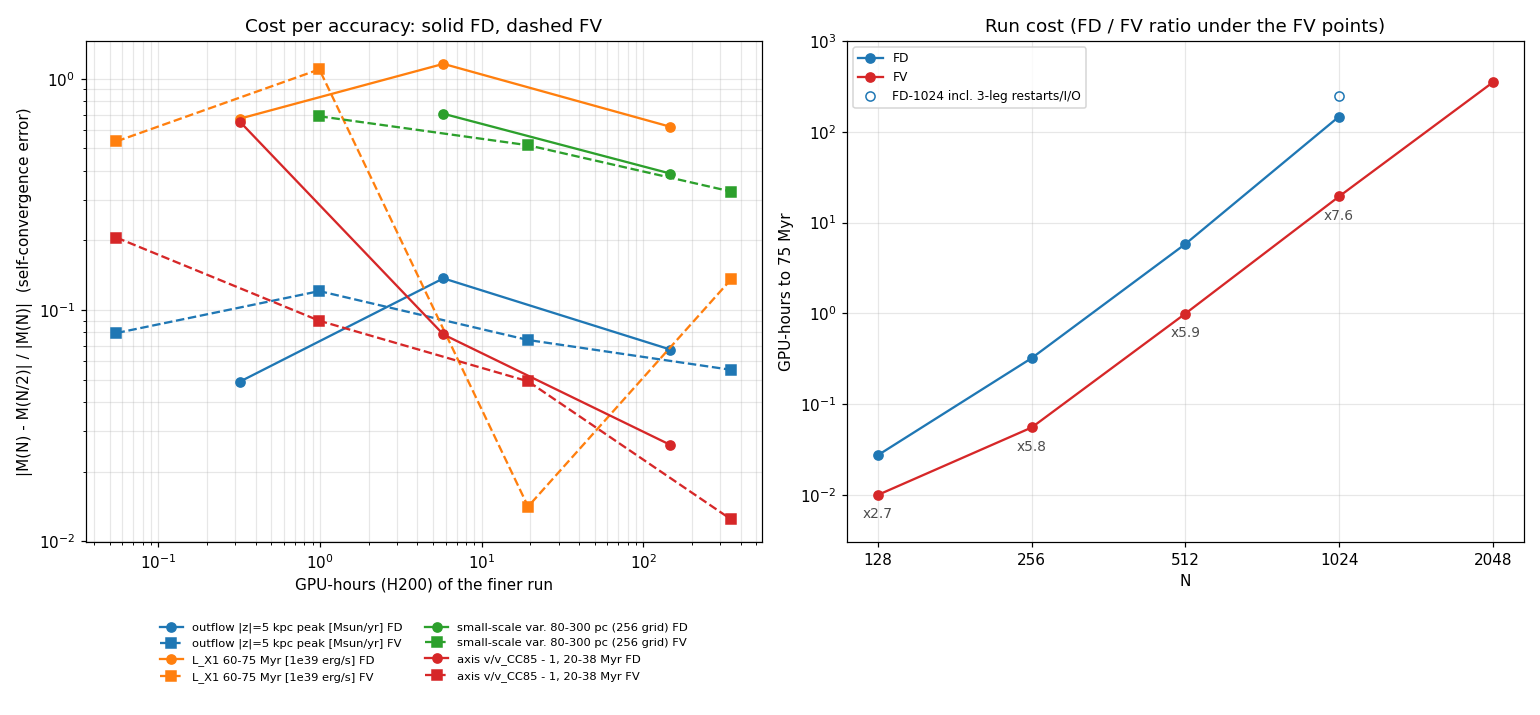
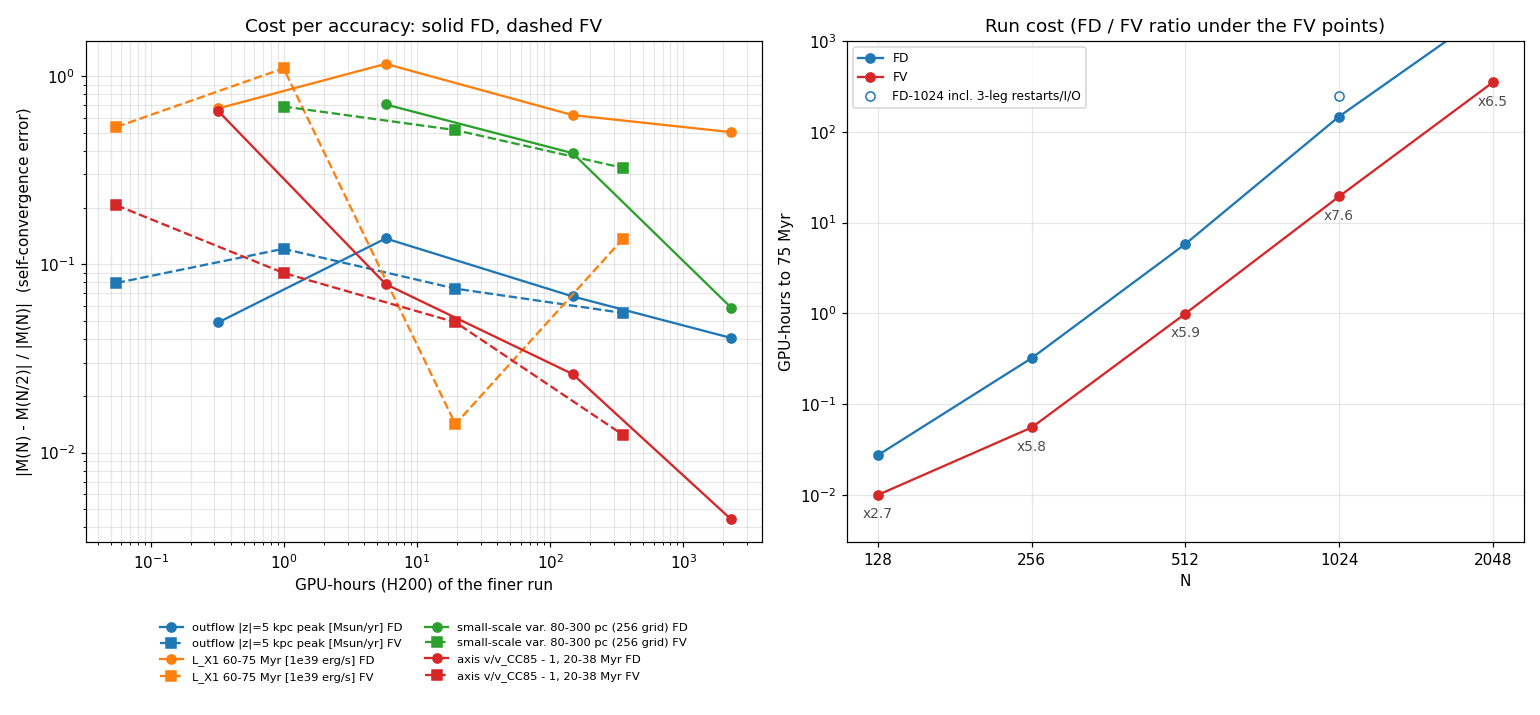
cgols: FD-2048 in the FV/FD synthesis (FD-FV rows and the FD 512-2048 ladder to 2048) + fv_vs_fd_A2048
At 2048 FD and FV agree within noise on nearly every frame metric: late L_X1
5.59 vs 5.23e39 (z 0.6), 40-50 Myr outflow 6.92 vs 6.93, mass out 311 vs 310,
side loss, box mass, pinch, asymmetry, small-scale variance. Remaining gaps:
late H-alpha FD +8% (z 3.7) and the 1 kpc mixed outflow FV +33% (2.85 vs 2.15).

diff --git a/pytests/self_gravity/cgols/cgols_fvfd_synthesis.py b/pytests/self_gravity/cgols/cgols_fvfd_synthesis.py
@@ -26,19 +26,19 @@ Per run (cached in data/studies/fvfd_synthesis_metrics.json, --recompute to rebu
 
 Noise. sigma_traj = sample std over the realisations of one scheme at one N: IC-noise seeds 0-3, the checkpoint-
 segmented vs unsegmented baselines and reruns (fp32 only). The IC noise (1e-3) perturbs less than checkpoint
-segmentation does, so this is a LOWER bound. Where a scheme/N has no ensemble (FD-1024) it is
+segmentation does, so this is a LOWER bound. Where a scheme/N has no ensemble (FD-1024, FD-2048, FV-2048) it is
 extrapolated as "noise does not shrink with N, and FD is as noisy as FV": the largest sigma measured for either
 scheme at any N' <= N (relative for positive fluxes/luminosities, absolute for log or shape metrics); the
-pessimistic variant also applies the FV 256 -> 512 growth once more at 1024. sigma_t is the standard error of a
+pessimistic variant also applies the FV 256 -> 512 growth once more at 1024 and 2048. sigma_t is the standard error of a
 window mean from 5 Myr block means (a stationarity-based proxy that exists for every run). The conservative
 sigma = max(sigma_traj, sigma_t); a difference is called significant if |FD - FV| > 3 sigma_diff with
 sigma_diff = hypot(sigma_FD, sigma_FV). 3D metrics have no ensembles: they borrow the relative sigma_traj of the
 matching frames metric (out5 window) and take the max with their own sigma_t.
 
-Statistics printed per metric: FD, FV, FD-FV and z = (FD-FV)/sigma_diff at 128/256/512/1024; the power-law slope b
-of |FD-FV| ~ N^b (weighted fit, 256-1024, only if the sign is constant); per scheme the successive differences
-256->512->1024, the observed order p = log2(|d1|/|d2|) and a Richardson value M_inf = M_1024 + d2/(2^p - 1) when
-monotone (Monte Carlo over sigma: the fraction of draws that are monotone, the 16-84% range); the equivalent-
+Statistics printed per metric: FD, FV, FD-FV and z = (FD-FV)/sigma_diff at 128-2048; the power-law slope b
+of |FD-FV| ~ N^b (weighted fit, 256-2048, only if the sign is constant); per scheme the successive differences
+256->512->1024 and 512->1024->2048, the observed order p = log2(|d1|/|d2|) and a Richardson value
+M_inf = M_N + d2/(2^p - 1) when monotone (Monte Carlo over sigma: the fraction of draws that are monotone, the 16-84% range); the equivalent-
 resolution factor k with FV(N) = FD(kN) (interpolated in log2 N on the FD ladder); and the GPU-hours per run. The
 ablations (HLLE, fp64, CFL 0.3, PPM) are listed as offsets from their FV baseline in units of sigma.
 
@@ -66,6 +66,8 @@ ablations (HLLE, fp64, CFL 0.3, PPM) are listed as offsets from their FV baselin
     # _A512s1 --source frames): FD-512 sigma_traj is measured (2 members) instead of extrapolated.
     # 2026-11-05: + FV-1024 seed 1 (RUNS["FV1024s1"], HoreKa job 117180, emission cache from the frames): FV-1024
     # sigma_traj measured (2 members).
+    # 2026-11-09: + FD-2048 (RUNS["FD2048"], the A-2048 production run; frames, emission and 3D caches from the
+    # A-2048 analysis). FD-FV rows, the FD 512 -> 1024 -> 2048 ladder and the slope fit now run to 2048.
 
 Writes figures/cgols/comparisons/fvfd_summary_significance.png, fvfd_convergence.png and fvfd_cost.png and prints
 the markdown tables. CPU only, numpy + scipy + matplotlib (no jax).
@@ -98,7 +100,7 @@ CACHE = "data/studies/fvfd_synthesis_metrics.json"
 FIG_DIR = "figures/cgols/comparisons"
 BOX_Z = 20.0
 MYR_PER_CODE_TIME = 9.777922216807893
-RES = (128, 256, 512, 1024, 2048)  # FD to 1024; FV to 2048 (FD-FV differences exist where both do)
+RES = (128, 256, 512, 1024, 2048)
 HEIGHTS_KPC = np.array([0.5, 1.0, 2.0, 3.0, 4.0, 5.0, 6.0, 8.0])  # = cgols_convergence_3d.HEIGHTS_KPC
 RNG = np.random.default_rng(1)
 
@@ -154,6 +156,9 @@ RUNS = {
     # HoreKa job 112293 (32 H200, split (1, 8, 4, 1), code 2ce69fa): frames + emission; 3D cache
     # data/studies/convergence3d_v3_A2048fv.npz (31 checkpoints, every 2nd frame + 59, measured on HoreKa)
     "FV2048": ("FV", 2048, "base", "cgols_snapshots_A2048fv", "_A2048fv", "_A2048fv", f"{LOGS}/cgols_diag_A2048fv.log"),
+    # HoreKa jobs 96655 + 96657 (32 H200, split (1, 8, 4, 1)); 60 frames (51.25 Myr missing), emission from the
+    # frames, 3D cache from HoreKa job 123745 (all 60 checkpoints)
+    "FD2048": ("FD", 2048, "base", "cgols_snapshots_A2048", "_A2048", "_A2048", f"{LOGS}/cgols_diag_A2048.log"),
 }
 
 #: Solver GPU-hours (H200) to 75 Myr from the console logs (time_integration wall x GPUs); 128/256 from the
@@ -165,6 +170,9 @@ GPU_HOURS = {
     ("FD", 512): 20898.4 / 3600, ("FV", 512): 3571.9 / 3600,
     ("FD", 1024): 3.13 * 42341 * 4 / 3600, ("FV", 1024): 17449.4 * 4 / 3600,
     ("FV", 2048): 39422.9 * 32 / 3600,  # 68952 steps, 32 H200, one leg (job 112293)
+    # 92826 steps, 32 H200, legs 96655 (42.1 h, died writing the 51.25 Myr frame) + 96657 (29.51 h); without the
+    # 780 GPU-h of leg 96656 lost to an InfiniBand hang
+    ("FD", 2048): (42.1 + 29.51) * 32,
 }
 GPU_HOURS_FD1024_TOTAL = 246.0
 
@@ -582,7 +590,7 @@ def verdict(row):
     return "<" if row["R"] < 1 else ">"
 
 
-def trend(rows, ns=(256, 512, 1024)):
+def trend(rows, ns=(256, 512, 1024, 2048)):
     """Weighted fit |Delta| ~ N^b over ns if Delta keeps its sign; (b, err, note)."""
     pts = [(n, rows[n]["delta"], rows[n]["sigma"]) for n in ns if n in rows]
     if len(pts) < 3:
@@ -643,10 +651,12 @@ def k_factor(cell, n, draws=2000, key=None):
         d = np.diff([cell[("FD", m)]["value"] for m in points])
         return len(points) >= 2 and (np.all(d > 0) or np.all(d < 0))
 
-    if not monotone(ns):  # the full FD ladder must be monotone; else try 256-1024 only
+    if not monotone(ns):  # the full FD ladder must be monotone; else try 256-2048, then 512-2048
         ns = [m for m in ns if m >= 256]
         if not monotone(ns):
-            return None, None, "FD non-monotone"
+            ns = [m for m in ns if m >= 512]
+            if not monotone(ns):
+                return None, None, "FD non-monotone"
 
     def solve(fd, target):
         x = np.log2(ns)
@@ -701,9 +711,9 @@ def fmt(v, digits=3):
 def tables(st, runs, data):
     summary = {}
     print("\n## Metric table: FD | FV (+- sigma) and z = (FD-FV)/sigma_diff per N  [* = sigma_traj extrapolated; "
-          "late metrics: z with sigma = max(traj, t) / z with sigma_traj only; (p ...) = pessimistic 1024]\n")
+          "late metrics: z with sigma = max(traj, t) / z with sigma_traj only; (p ...) = pessimistic >= 1024]\n")
     print("| metric | " + " | ".join(f"{n}: FD / FV | z" for n in RES)
-          + " | slope b of abs(FD-FV)~N^b (256-1024) | R = abs(FD-FV) / resolution step, per N; verdict |")
+          + " | slope b of abs(FD-FV)~N^b (256-2048) | R = abs(FD-FV) / resolution step, per N; verdict |")
     print("|---|" + "---|---|" * len(RES) + "---|---|")
     for key, (label, _, _) in METRICS.items():
         cell = st[key]
@@ -716,7 +726,7 @@ def tables(st, runs, data):
                 star = lambda c: "*" if c.get("extrap") else ""
                 r = rows[n]
                 zs = fmt(r["z"], 2) + ("" if key in EARLY else f" / {fmt(r['z_lo'], 2)}")
-                zs += f" (p {fmt(r['z_pess'], 2)})" if n == 1024 and r["z_pess"] != r["z"] else ""
+                zs += f" (p {fmt(r['z_pess'], 2)})" if n >= 1024 and r["z_pess"] != r["z"] else ""
                 line += (f" {fmt(fd['value'])}±{fmt(fd['sigma'], 2)}{star(fd)} / "
                          f"{fmt(fv['value'])}±{fmt(fv['sigma'], 2)}{star(fv)} | {zs} |")
             else:
@@ -727,7 +737,7 @@ def tables(st, runs, data):
         print(line)
         summary[key] = {"rows": {str(n): r for n, r in rows.items()}, "trend": [b, berr, note]}
 
-    print("\n## Self-convergence per scheme (N/4 -> N/2 -> N; FD and FV 256 -> 1024, FV also 512 -> 2048): d1, d2, "
+    print("\n## Self-convergence per scheme (N/4 -> N/2 -> N; FD and FV 256 -> 1024 and 512 -> 2048): d1, d2, "
           "order p, Richardson M_inf; MC: fraction monotone, p and M_inf 16/50/84%\n")
     print("| metric | scheme | ladder | values | d1 | d2 | p | M_inf | MC mono | MC p | MC M_inf |")
     print("|---|---|---|---|---|---|---|---|---|---|---|")
@@ -740,7 +750,7 @@ def tables(st, runs, data):
             print(f"| {label} | {scheme} | {'-'.join(map(str, ladder))} | {' / '.join(fmt(x) for x in r['values'])} | "
                   f"{fmt(r['d1'])} | {fmt(r['d2'])} | {fmt(r.get('p'), 2)} | {fmt(r.get('minf'))} | "
                   f"{r['frac_mono']:.2f} | {q('p_q')} | {q('minf_q')} |")
-            # the 256-1024 ladders keep their historical keys; the FV 512-2048 one is rich_FV_2048
+            # the 256-1024 ladders keep their historical keys; the 512-2048 ones are rich_<scheme>_2048
             summary[key][f"rich_{scheme}" + ("" if ladder[-1] == 1024 else f"_{ladder[-1]}")] = r
 
     print("\n## Equivalent resolution k: FV(N) = FD(k N)  (16-84%)\n")
@@ -820,7 +830,8 @@ def tables(st, runs, data):
 
 
 #: (scheme, N ladder) of the self-convergence table; the finest available one feeds the figure's M_inf band
-RICH_LADDERS = (("FD", (256, 512, 1024)), ("FV", (256, 512, 1024)), ("FV", (512, 1024, 2048)))
+RICH_LADDERS = (("FD", (256, 512, 1024)), ("FV", (256, 512, 1024)), ("FD", (512, 1024, 2048)),
+                ("FV", (512, 1024, 2048)))
 
 
 def finest_richardson(cell, scheme):
@@ -927,7 +938,7 @@ def fig_significance(st):
                  fontsize=10)
     ax_k.set_title("(b) equivalent resolution k (16-84% over sigma);\nblank: no FV run or FD ladder not monotone there",
                    fontsize=10)
-    fig.suptitle("CGOLS model A, FD (WENO5-Z) vs FV (VL2 + PLM + HLLC): every metric, 128-1024 (FV-2048: k only)",
+    fig.suptitle("CGOLS model A, FD (WENO5-Z) vs FV (VL2 + PLM + HLLC): every metric, 128-2048",
                  fontsize=12)
     fig.tight_layout()
     path = f"{FIG_DIR}/fvfd_summary_significance.png"
@@ -981,7 +992,7 @@ def fig_convergence(st, runs, data):
             handles.setdefault(l, h)
     fig.legend(handles.values(), handles.keys(), loc="lower center", ncol=8, fontsize=8.5, frameon=False,
                bbox_to_anchor=(0.5, 0.0))
-    fig.suptitle("Self-convergence of FD (128-1024) and FV (128-2048) (error bars: conservative sigma; dashes: "
+    fig.suptitle("Self-convergence of FD and FV (128-2048) (error bars: conservative sigma; dashes: "
                  "realisations;\nright-edge band: Richardson M_inf 16-84% of the finest 3-run ladder if monotone; "
                  "offset markers: ablations)", fontsize=11)
     fig.tight_layout(rect=(0, 0.04, 1, 0.97))
